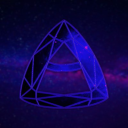
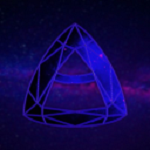
Squash some bugs!
- Make images all 150x150
- Change Dash tab from Python to JS (nice job)
- Change all sharex references to pxl

diff --git a/_site/index.html b/_site/index.html
@@ -56,10 +56,10 @@
         <a class="nav-item" href="/#staff">
           <i class="fas fa-wrench fa-fw" style="margin-right: 5px;"></i> Staff
         </a>
-        <a class="nav-item" href="/#cube">
-          <i class="fab fa-python fa-fw" style="margin-right: 5px;"></i> Dash
+        <a class="nav-item" href="/#dash">
+          <i class="fab fa-js-square fa-fw" style="margin-right: 5px;"></i> Dash
         </a>
-        <a class="nav-item" href="/#sharex">
+        <a class="nav-item" href="/#pxl">
           <i class="far fa-file-image fa-fw" style="margin-right: 5px;"></i> PXL
         </a>
       
@@ -181,11 +181,11 @@
       </div>
       <br>
       <br>
-      <div class="box" id="cube" style="text-align: center;">
+      <div class="box" id="dash" style="text-align: center;">
          <div class="columns">
             <div class="column">
                <h1 class="title"><strong>Dash</strong></h1>
-               <p class="subtitle"><strong>Cube is a Discord Bot for the future</strong></p>
+               <p class="subtitle"><strong>Dash is a Discord Bot for the future</strong></p>
                <p style="font-size: 17px;">Dash is a public bot which you can add to your server!</p>
                <p style="font-size: 17px;">I try keep it online when I can, but <i>sometimes</i> it goes down, due to VPS problems or whatever!</p>
                <p style="font-size: 17px;">Dash is stable, any features added to Dash have already been tested and bug squashed!</p>
@@ -226,7 +226,7 @@
       <br>
       <br>
 
-<div class="box" id="sharex" style="text-align: center;">
+<div class="box" id="pxl" style="text-align: center;">
         <div class="columns">
            <div class="column">
 

diff --git a/_layouts/page.html b/_layouts/page.html
@@ -25,7 +25,7 @@ layout: blank
         <a class="nav-item" href="/#staff">
           <i class="fas fa-wrench fa-fw" style="margin-right: 5px;"></i> Staff
         </a>
-        <a class="nav-item" href="/#cube">
+        <a class="nav-item" href="/#dash">
           <i class="fab fa-python fa-fw" style="margin-right: 5px;"></i> Dash
         </a>
         <a class="nav-item" href="/#sharex">

diff --git a/_site/pxl.html b/_site/pxl.html
@@ -56,7 +56,7 @@
         <a class="nav-item" href="/#staff">
           <i class="fas fa-wrench fa-fw" style="margin-right: 5px;"></i> Staff
         </a>
-        <a class="nav-item" href="/#cube">
+        <a class="nav-item" href="/#dash">
           <i class="fab fa-python fa-fw" style="margin-right: 5px;"></i> Dash
         </a>
         <a class="nav-item" href="/#sharex">

diff --git a/index.html b/index.html
@@ -102,7 +102,7 @@ layout: page
       </div>
       <br>
       <br>
-      <div class="box" id="cube" style="text-align: center;">
+      <div class="box" id="dash" style="text-align: center;">
          <div class="columns">
             <div class="column">
                <h1 class="title"><strong>Dash</strong></h1>
